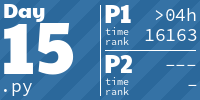
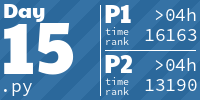
2023 - Day 15, part 2

Changed region(s): [[0.72, 0.78, 0.99, 0.93], [0.78, 0.57, 0.99, 0.72]]

diff --git a/ibidem/advent_of_code/y2023/dec15.py b/ibidem/advent_of_code/y2023/dec15.py
@@ -1,6 +1,17 @@
 #!/usr/bin/env python
+import re
+from collections import defaultdict
+from dataclasses import dataclass, field
 
 from ibidem.advent_of_code.util import get_input_name
+
+STEP_PATTERN = re.compile(r"([a-z]+)([=-])(\d+)?")
+
+
+@dataclass
+class Lens:
+    label: str
+    focal_length: int = field(compare=False)
 
 
 def load(fobj):
@@ -20,8 +31,36 @@ def part1(input):
     return sum(hash(step) for step in input)
 
 
+def focusing_power(box_num, slot, focal_length):
+    return box_num * slot * focal_length
+
+
 def part2(input):
-    return None
+    boxes = defaultdict(list)
+    for step in input:
+        if m := STEP_PATTERN.match(step):
+            label = m.group(1)
+            operation = m.group(2)
+            box = boxes[hash(label)]
+            if operation == "=":
+                focal_length = int(m.group(3))
+                lens = Lens(label, focal_length)
+                if lens in box:
+                    idx = box.index(lens)
+                    box[idx] = lens
+                else:
+                    box.append(lens)
+            else:
+                lens = Lens(label, 0)
+                if lens in box:
+                    box.remove(lens)
+    result = 0
+    for box_num, box in boxes.items():
+        if len(box) == 0:
+            continue
+        for slot, lens in enumerate(box):
+            result += focusing_power(box_num + 1, slot + 1, lens.focal_length)
+    return result
 
 
 if __name__ == "__main__":

diff --git a/ibidem/advent_of_code/y2023/test/test_dec15.py b/ibidem/advent_of_code/y2023/test/test_dec15.py
@@ -4,12 +4,12 @@ from collections import namedtuple
 
 import pytest
 
-from ibidem.advent_of_code.y2023.dec15 import load, part1, part2, hash
+from ibidem.advent_of_code.y2023.dec15 import load, part1, part2, hash, focusing_power
 
 TestData = namedtuple('TestData', 'part1 part2 input')
 
 TEST_INPUTS = [
-    TestData(1320, NotImplemented, io.StringIO(textwrap.dedent("rn=1,cm-,qp=3,cm=2,qp-,pc=4,ot=9,ab=5,pc-,pc=6,ot=7"))),
+    TestData(1320, 145, io.StringIO(textwrap.dedent("rn=1,cm-,qp=3,cm=2,qp-,pc=4,ot=9,ab=5,pc-,pc=6,ot=7"))),
 ]
 
 
@@ -51,3 +51,13 @@ class TestDec15():
     def test_hash(self, step, expected):
         actual = hash(step)
         assert actual == expected
+
+    @pytest.mark.parametrize("box_num,slot,focal_length,expected", [
+        (1, 1, 1, 1),
+        (1, 2, 2, 4),
+        (4, 1, 7, 28),
+        (4, 2, 5, 40),
+        (4, 3, 6, 72),
+    ])
+    def test_focusing_power(self, box_num, slot, focal_length, expected):
+        assert focusing_power(box_num, slot, focal_length) == expected
